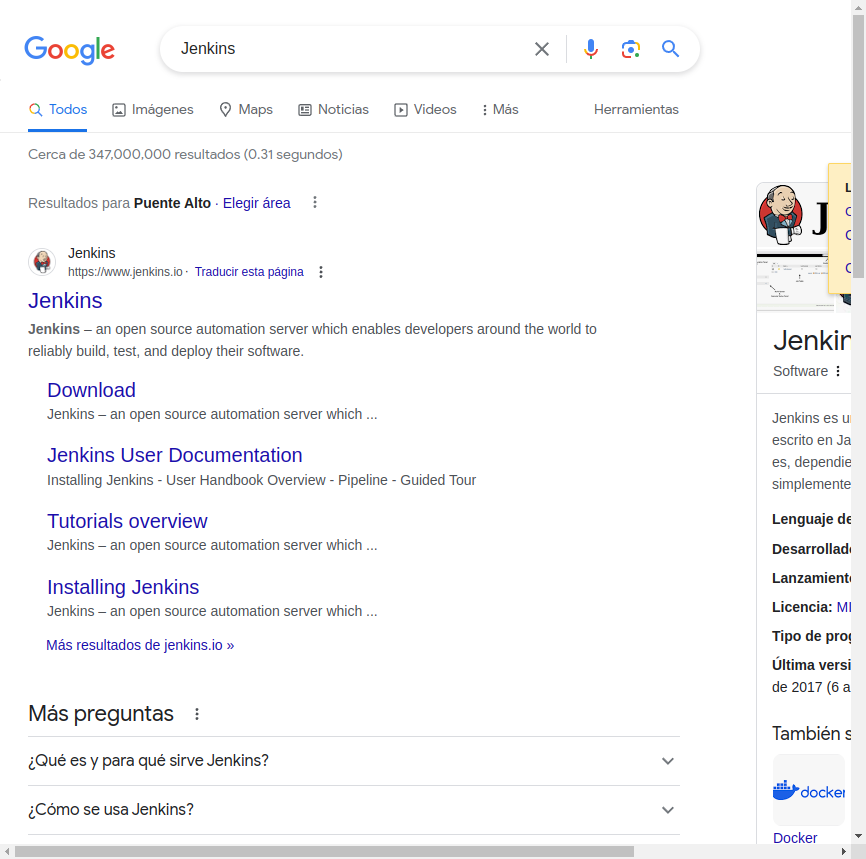
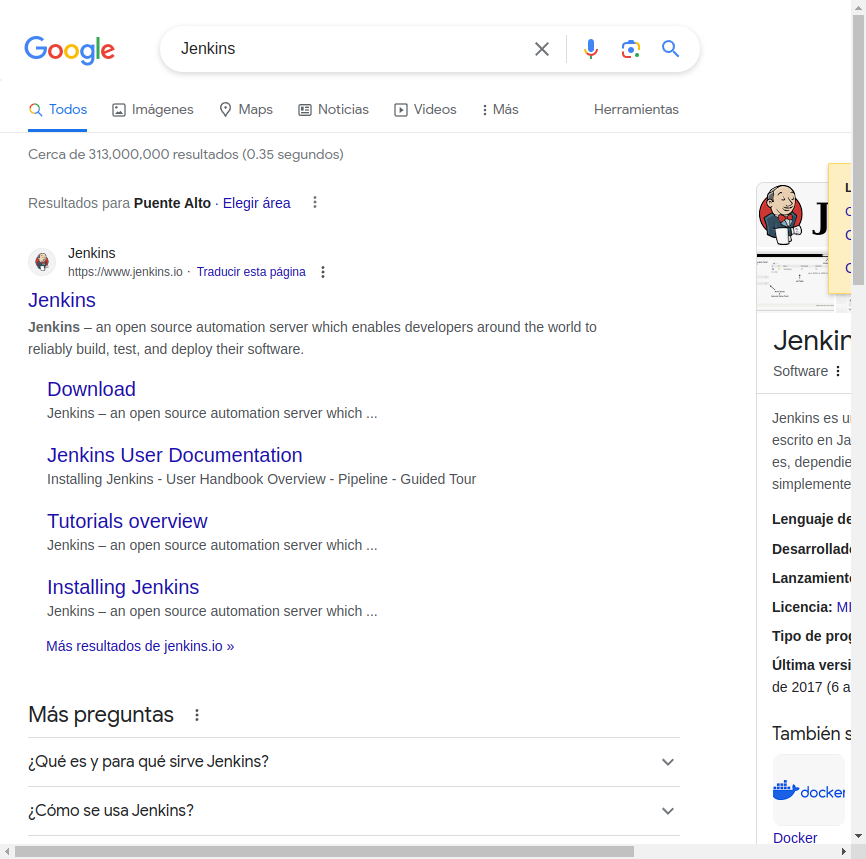
adding

diff --git a/google.py b/google.py
@@ -1,18 +1,32 @@
 from selenium import webdriver
+from selenium.webdriver.chrome.service import Service as ChromeService
+from selenium.webdriver.common.keys import Keys
 import time
 
 def test_google_search():
-    # Crear una instancia del controlador de Chrome
-    driver = webdriver.Chrome()
+    chromedriver_path = "/usr/local/bin/chromedriver"
     
-    # Navegar a Google
-    driver.get("https://www.google.com")
+    # Configura el servicio de Chrome con la ruta al chromedriver
+    chrome_service = ChromeService(executable_path=chromedriver_path)
     
-    # Esperar 2 segundos para que puedas ver la ventana del navegador
-    time.sleep(2)
-    
-    # Cerrar el navegador
-    driver.quit()
+    # Configura el webdriver utilizando el servicio de Chrome
+    driver = webdriver.Chrome(service=chrome_service)
 
-# Llamar a la función de prueba
+    try:
+        # Realiza la búsqueda en Google
+        driver.get("https://www.google.com")
+        search_box = driver.find_element("name", "q")
+        search_box.send_keys("Jenkins")
+        search_box.send_keys(Keys.RETURN)
+
+        # Espera un momento para ver los resultados
+        time.sleep(2)
+
+        # Captura un screenshot para verificar el resultado (opcional)
+        driver.save_screenshot("google_search_results.png")
+    finally:
+        # Cierra el navegador al finalizar
+        driver.quit()
+
+# Llama a la función de prueba
 test_google_search()
